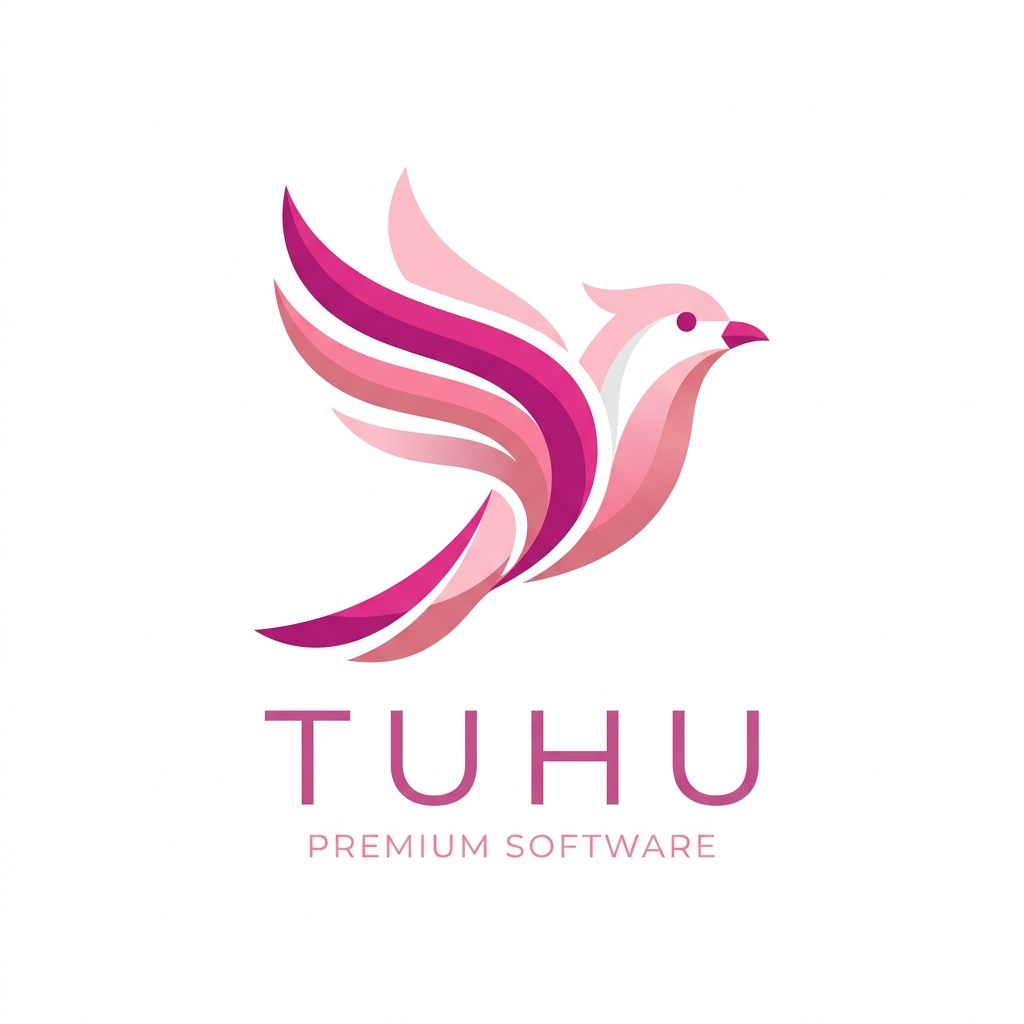
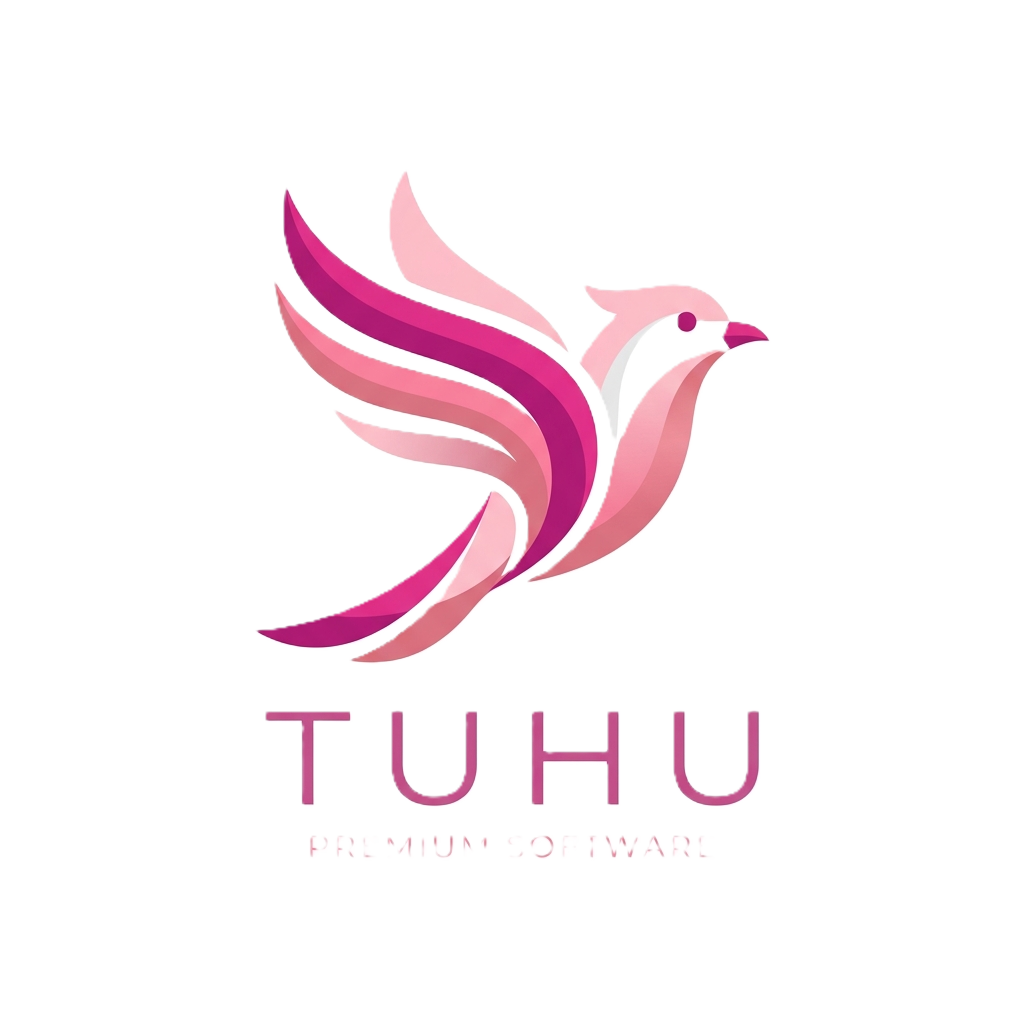
brand: rename tool to TUHU V1

diff --git a/Views/MainWindow.xaml b/Views/MainWindow.xaml
@@ -4,7 +4,7 @@
         xmlns:d="http://schemas.microsoft.com/expression/blend/2008"
         xmlns:mc="http://schemas.openxmlformats.org/markup-compatibility/2006"
         mc:Ignorable="d"
-        Title="TUHU - Template-based Web Scraper"
+        Title="TUHU V1 - Template-based Web Scraper"
         Icon="/icon.png"
         Height="820"
         Width="1280"
@@ -31,7 +31,7 @@
                             <GradientStop Color="{StaticResource PinkPrimaryColor}" Offset="1.0" />
                         </LinearGradientBrush>
                     </TextBlock.Foreground>
-                    TUHU
+                    TUHU V1
                 </TextBlock>
             </StackPanel>
         </DockPanel>